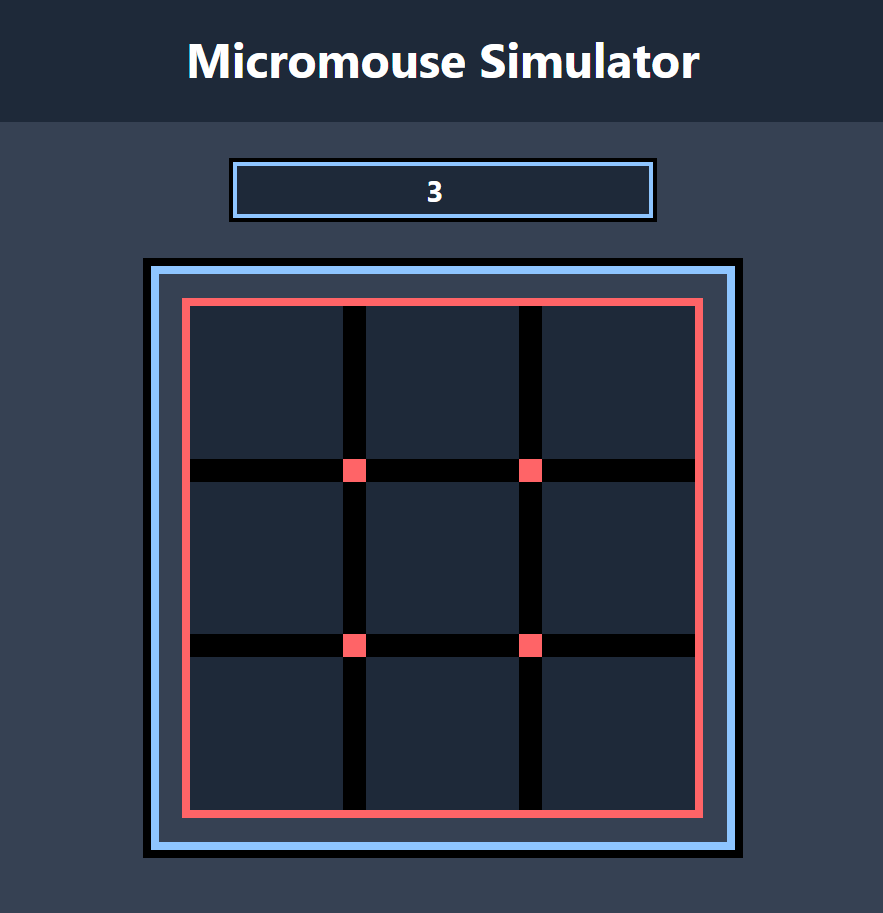
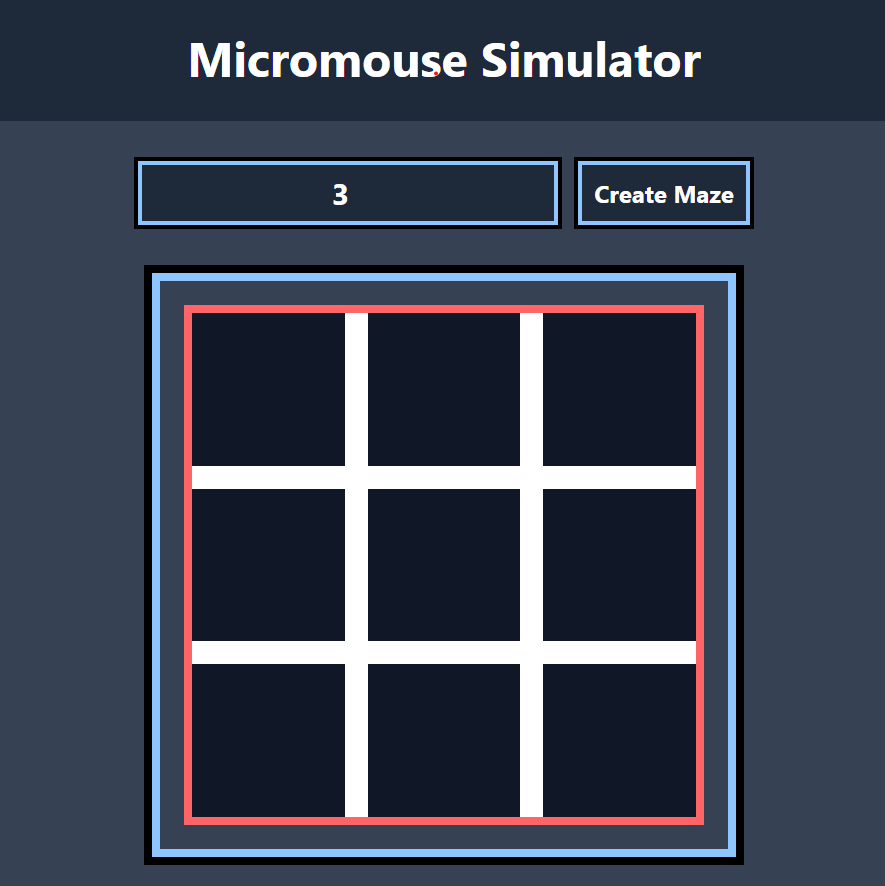
Fix DFS-MazeGen algorithm to validate neighbors when backtracking, modify the algorithm to handle async operations for visualizing generation process and update maze colors

Changed region(s): [[0.1529, 0.1524, 0.8562, 0.9752], [0.214, 0.0305, 0.795, 0.0914]]

diff --git a/src/App.jsx b/src/App.jsx
@@ -4,9 +4,12 @@ const App = () => {
   const [cellCount, setCellCount] = useState(4)
   const [maze, setMaze] = useState(null)
   const mazeDictionary = {
-    0: 'bg-gray-800', // Empty cell
-    1: 'bg-black', // Wall
-    2: 'bg-red-400', // Wall-Joints
+    0: 'bg-gray-900', // Empty cell
+    1: 'bg-white', // Wall
+    2: 'bg-white', // Wall-Joints
+    3: 'bg-gray-900', // Removed wall
+    4: 'bg-gray-700', // Visited Cell
+    5: 'bg-gray-800', // Visited Deadend
   }
 
   const CreateGrid = (size) => {
@@ -59,7 +62,7 @@ const App = () => {
     )
   }
 
-  const MapMaze = (maze) => {
+  const MapMatrix = (maze) => {
     // Returns a div that wraps another div containing all rows
     // of the maze matrix (each row, already mapped and styled)
     return (
@@ -79,14 +82,16 @@ const App = () => {
     if (maze) setMaze(null)
   }
 
+  const Sleep = (ms) => new Promise((resolve) => setTimeout(resolve, ms))
+
   const GenMaze = (grid) => {
     // Creating a copy of the grid to mutate over it
     const mutableGrid = grid.map((row) => [...row])
 
     // Get random pos for first unvisited cell
     const [x, y] = [
-      Math.floor(Math.random() * (cellCount - 1)),
-      Math.floor(Math.random() * (cellCount - 1)),
+      Math.floor(Math.random() * cellCount),
+      Math.floor(Math.random() * cellCount),
     ]
 
     // Create matrix of cellCount length for marking visited cells
@@ -97,7 +102,7 @@ const App = () => {
     }
 
     // Function that generates a maze using backtracking (DFS)
-    const GenMazeDFS = (x, y, visited, mutableGrid) => {
+    const GenMazeDFS = async (x, y, visited, mutableGrid) => {
       // We always get an unvisited position here
       visited[x][y] = true
 
@@ -106,7 +111,7 @@ const App = () => {
         return true
 
       // Creation of a list of coordinates that correspond to neighboring cells of the current cell
-      let neighbors = GetNeighborsAndFilter(x, y, visited)
+      let neighbors = ValidateNeighbors(GetNeighbors(x, y), visited)
 
       // Flag to indicate if the current call has been backtracked
       let backtrack = false
@@ -116,7 +121,7 @@ const App = () => {
 
       do {
         // If we have backtracked, we remove the coordinates of the neighbor from which we backtracked
-        if (backtrack) neighbors = RemoveNeighbor(neighbors, newX, newY)
+        if (backtrack) neighbors = ValidateNeighbors(neighbors, visited)
 
         // If there are no more neighbors we return false to backtrack
         if (neighbors.length === 0)
@@ -124,19 +129,19 @@ const App = () => {
 
           // Assign random positions to the new cell (based on the current neighbors)
         ;[newX, newY] = RndNeighbor(neighbors)
-
         // Get the correponding position of the wall to remove
         let [wallX, wallY] = GetWallPos(x, y, newX, newY)
 
-        // Removing the wall
-        mutableGrid[wallX][wallY] = 0
+        // Updating state
+        mutableGrid[wallX][wallY] = 3 // Removing Wall
+        mutableGrid[x * 2][y * 2] = 4 // Updating currentCell
+        mutableGrid[newX * 2][newY * 2] = 5 // Updating newCell
+        setMaze([...mutableGrid])
+        await Sleep(20)
 
         // We flag backtrack to true, so that if it backtracks, we can update variables accordingly
         backtrack = true
-      } while (!GenMazeDFS(newX, newY, visited, mutableGrid)) // Runs until all cells are visited
-
-      // Setting the maze so that react can render it
-      setMaze(mutableGrid)
+      } while (!(await GenMazeDFS(newX, newY, visited, mutableGrid))) // Runs until all cells are visited
       return true
     }
 
@@ -147,30 +152,25 @@ const App = () => {
       !(coord[0] < 0) &&
       !(coord[1] < 0)
 
-    const GetNeighborsAndFilter = (x, y, visited) => {
+    const GetNeighbors = (x, y) => {
       let neighbors = [
         [x - 1, y],
         [x, y + 1],
         [x + 1, y],
         [x, y - 1],
       ]
-      neighbors = neighbors.filter((coord) =>
+
+      return neighbors.filter((coord) =>
         IsInsideBounds(coord, visited.length - 1),
       )
-      neighbors = neighbors.filter(
-        (coord) => visited[coord[0]][coord[1]] === false,
-      )
-      return neighbors
     }
 
-    const RemoveNeighbor = (neighbors, newX, newY) => {
-      return neighbors.filter(
-        (coord) => JSON.stringify(coord) !== JSON.stringify([newX, newY]),
-      )
+    const ValidateNeighbors = (neighbors, visited) => {
+      return neighbors.filter((coord) => visited[coord[0]][coord[1]] === false)
     }
 
     const RndNeighbor = (neighbors) => {
-      const rndIndex = Math.floor(Math.random() * (neighbors.length - 1))
+      const rndIndex = Math.floor(Math.random() * neighbors.length)
       return neighbors[rndIndex]
     }
 
@@ -205,14 +205,14 @@ const App = () => {
           ></input>
           <button
             className="mt-10 flex border-4 border-blue-300 bg-gray-800 p-3 text-center text-2xl font-bold text-white outline-4 outline-black"
-            onClick={() => (!maze ? GenMaze(grid) : setMaze(null))}
+            onClick={() => (maze ? setMaze(null) : GenMaze(grid))}
           >
-            {!maze ? 'Create Maze' : 'Reset'}
+            {maze ? 'Reset' : 'Create Maze'}
           </button>
         </div>
         <div className="m-auto mt-10 size-150 border-8">
           <div className="flex size-full items-center justify-center border-8 border-blue-300">
-            {!maze ? MapMaze(grid) : MapMaze(maze)}
+            {MapMatrix(maze ? maze : grid)}
           </div>
         </div>
       </div>

diff --git a/README.md b/README.md
@@ -9,11 +9,3 @@ Generation of 3x3 grid
 
 Generation of 5x5 grid
 ![grid-gen 5-cells](images/GridGen5Cells.png)
-
-# Maze-Generator
-
-Before generation
-![before-gen 6-cells](images/MazeGenBefore.png)
-
-After generation
-![before-gen 6-cells](images/MazeGenAfter.png)
